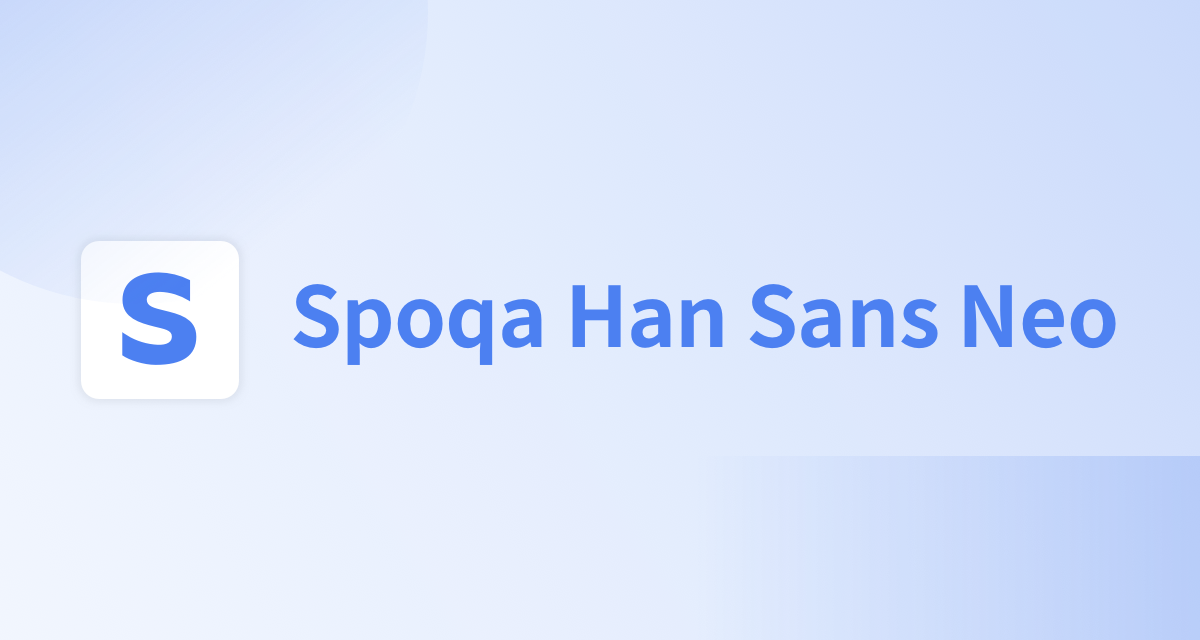
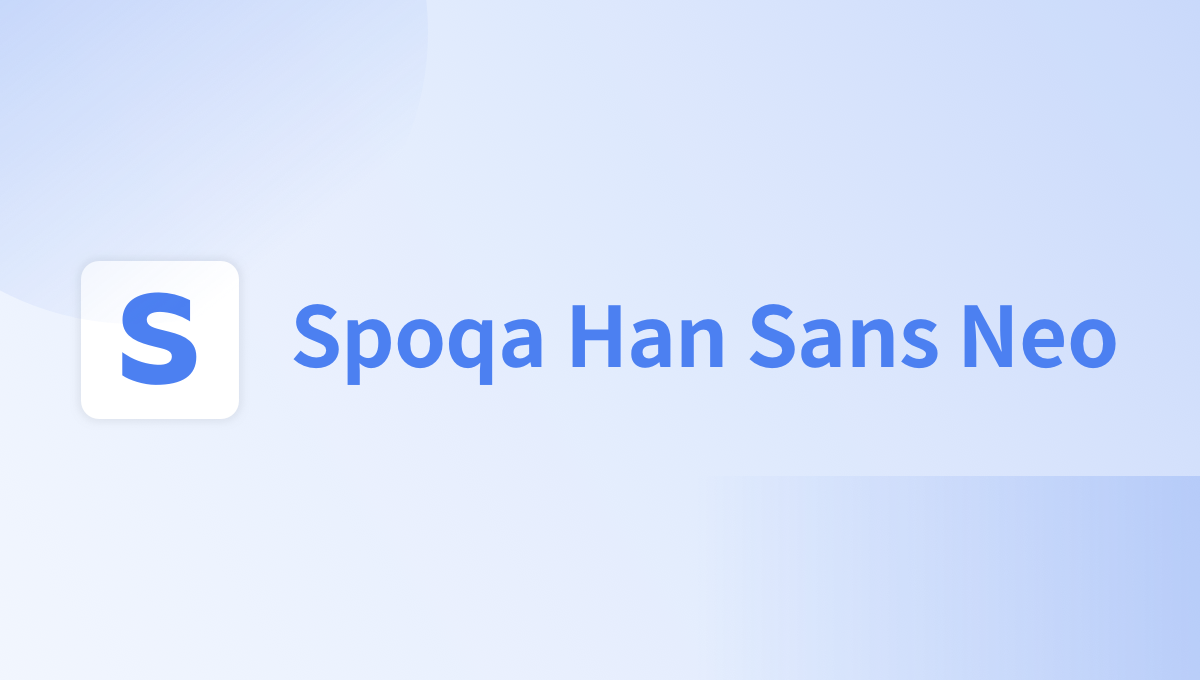
edit thumbnail

diff --git a/_projects/2022-01-02-spoqahansansneo.md b/_projects/2022-01-02-spoqahansansneo.md
@@ -3,7 +3,7 @@ title: '스포카 한 산스 네오'
 categories: 'Font'
 date: 2022-01-02 00:00:00
 description: 
-featured_image: '/img/00_projects/shs_neo/thumbnail.png'
+featured_image: '/img/00_projects/shs_neo/thumbnail2.png'
 external_url: 'https://spoqa.github.io/spoqa-han-sans/'
 external_site: Spoqa Han Sans
 ---

diff --git a/_projects/2022-06-20-WWIT.md b/_projects/2022-06-20-WWIT.md
@@ -3,7 +3,7 @@ title: 'WWIT - what was it'
 categories: 'UI/UX'
 date: 2022-06-20 00:00:00
 description: 
-featured_image: '/img/00_projects/WWIT/thumbnail.png'
+featured_image: '/img/00_projects/WWIT/thumbnail2.png'
 external_url: 'https://wwit.design'
 external_site: WWIT
 ---

diff --git a/_projects/2018-06-30-spoqawelcomekit.md b/_projects/2018-06-30-spoqawelcomekit.md
@@ -3,7 +3,7 @@ title: '스포카 웰컴키트'
 categories: 'Branding'
 date: 2018-06-30 00:00:00
 description: 
-featured_image: '/img/00_projects/spoqa_welcome/01.jpg'
+featured_image: '/img/00_projects/spoqa_welcome/02.jpg'
 ---
 ![](/img/00_projects/spoqa_welcome/01.jpg)
 

diff --git a/_projects/2018-05-30-wpc2019.md b/_projects/2018-05-30-wpc2019.md
@@ -3,7 +3,7 @@ title: '여성기획자컨퍼런스 2019'
 categories: 'Branding'
 date: 2018-05-30 00:00:00
 description: 
-featured_image: '/img/00_projects/wpc2019/01.jpg'
+featured_image: '/img/00_projects/wpc2019/02.jpg'
 ---
 
 ![](/img/00_projects/wpc2019/01.jpg)
